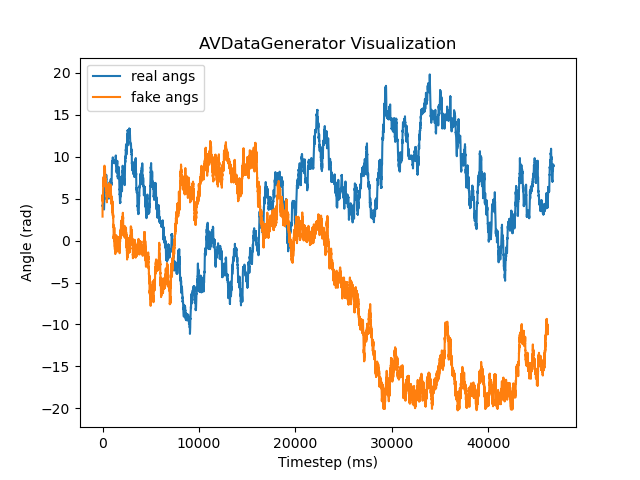
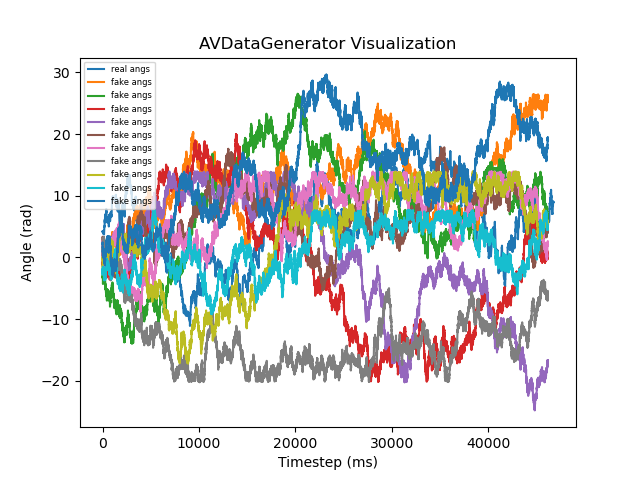
More fake data code tweaks

diff --git a/src/AVDataGenerator.py b/src/AVDataGenerator.py
@@ -55,15 +55,15 @@ def main():
     print("realAngs stddev: ", np.std(diffs))
     print("realAngs range: ", np.min(realAngs[1]), np.max(realAngs[1]))
 
-    datagen = AVDataGenerator(T=realAngs.shape[1], dt=25, mean=np.mean(diffs)/100, sigma=np.std(diffs)/10, momentum=0)
-    fakeAngs = datagen.GenerateAngs()
-
-    dataProcessor = DataPreprocessor(fakeAngs, sample_length=700, normalize=False)
-    fakeOutputs = dataProcessor.GetTrainingOutputs()
-    fakeOutputs = np.transpose(fakeOutputs, (2, 1, 0))
-    fakeOutputs = np.reshape(fakeOutputs, (fakeOutputs.shape[0], -1))
-    fakeOutputs = np.unwrap(np.arctan2(fakeOutputs[0], fakeOutputs[1]))
-    plt.plot(fakeOutputs, label='fake angs')
+    for i in range(10):
+        datagen = AVDataGenerator(T=realAngs.shape[1], dt=25, mean=np.mean(diffs)/100, sigma=np.std(diffs)/10, momentum=0)
+        fakeAngs = datagen.GenerateAngs()
+        dataProcessor = DataPreprocessor(fakeAngs, sample_length=700, normalize=False)
+        fakeOutputs = dataProcessor.GetTrainingOutputs()
+        fakeOutputs = np.transpose(fakeOutputs, (2, 1, 0))
+        fakeOutputs = np.reshape(fakeOutputs, (fakeOutputs.shape[0], -1))
+        fakeOutputs = np.unwrap(np.arctan2(fakeOutputs[0], fakeOutputs[1]))
+        plt.plot(fakeOutputs, label='fake angs')
     
     # fakeAngs = datagen.GenerateAngs()
     # plt.plot(fakeAngs[1], label='fake angs 2')
@@ -71,7 +71,7 @@ def main():
     plt.xlabel('Timestep (ms)')
     plt.ylabel('Angle (rad)')
     plt.title('AVDataGenerator Visualization')
-    plt.legend()
+    plt.legend(prop={'size': 6})
     plt.savefig('datagen.png')
 
 if __name__ == '__main__':

diff --git a/src/train_fakedata.py b/src/train_fakedata.py
@@ -8,7 +8,7 @@ from DataPreprocessor import DataPreprocessor
 from ContinuousTimeRNN import ContinuousTimeRNN
 from SingleLayerCTRNN import SingleLayerCTRNN
 
-NUM_EPOCHS = 100
+NUM_EPOCHS = 30
 TRAINING_BATCHES = 10
 
 def main():
@@ -71,15 +71,17 @@ def main():
 
     print("Testing the model...")
     testAngs = np.load('angs_smooth.npy')
-    TestCTRNN(testAngs, model, device, outputs)
+    TestCTRNN(testAngs, model, criterion, device, outputs)
 
-def TestCTRNN(angs, model, device, training_outputs):
+def TestCTRNN(angs, model, criterion, device, training_outputs):
     dataProcessor = DataPreprocessor(angs, sample_length=700, normalize=True) 
     initdir = torch.from_numpy(dataProcessor.GetInitialInput()).float().to(device)
     input = torch.from_numpy(dataProcessor.GetTrainingInputs()).float().to(device)
-    # output = torch.from_numpy(dataProcessor.GetTrainingOutputs()).float().to(device)
+    output = torch.from_numpy(dataProcessor.GetTrainingOutputs()).float().to(device)
     
     pred = model(initdir, input)
+    loss = criterion(pred, output)
+    print(f"Loss on real data: {loss.item():.4f}")
     pred = np.transpose(pred.detach().cpu().numpy(), (2, 1, 0))
     pred = np.reshape(pred, (pred.shape[0], -1))
     radsOut = np.unwrap(np.arctan2(pred[0], pred[1]))
@@ -94,7 +96,7 @@ def TestCTRNN(angs, model, device, training_outputs):
     plt.xlabel('Timestep (ms)')
     plt.ylabel('Angle (rad)')
     plt.title('Prediction Visualization')
-    plt.legend()
+    plt.legend(prop={'size': 6})
     plt.savefig('performance.png')
 
 if __name__ == '__main__':
